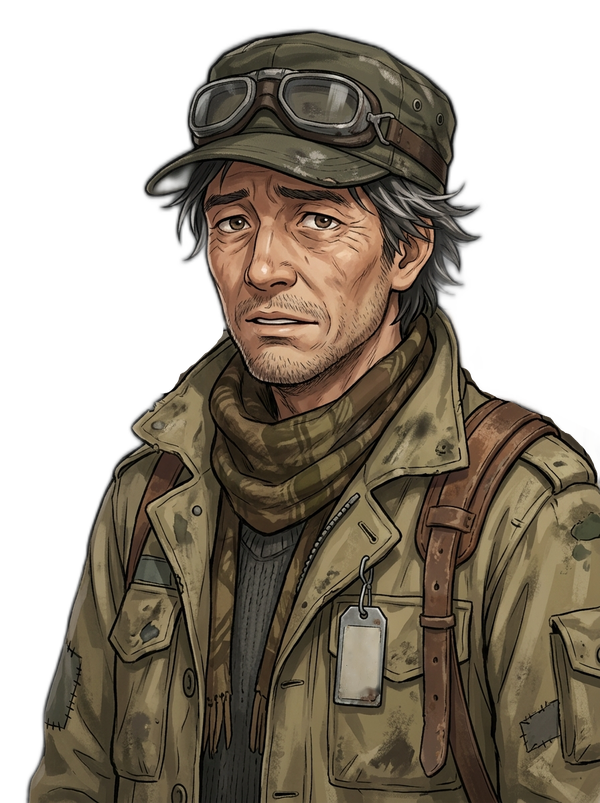
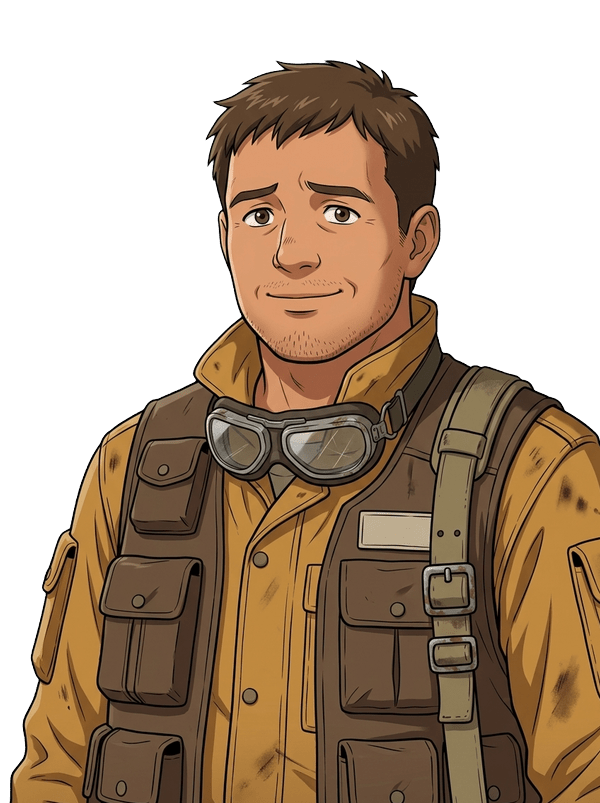
依頼人2人のイラスト差し替え・ライバル6人のイラスト追加・DEBUG に CHARACTERS 欄
頭のてっぺん〜あごの長さで全員の大きさをそろえた背景透過 PNG（600×803）。
DEBUG の CHARACTERS から来訪と同じ表示で1人ずつ確認でき、◀ ▶ で順送り。sw.js mech-v103。

Claude-Session: https://claude.ai/code/session_019GQLunoLs4AQurbUfmGhSK

diff --git a/index.html b/index.html
@@ -4309,6 +4309,8 @@ function visitNext(){clearInterval(VS.iv);VS.iv=null;
  VS.done=()=>{clearInterval(VS.iv);VS.iv=null;el.textContent=txt;if(VS.q.length||VS.fin)$('vNx').hidden=false;else visitChoices()};
  el.textContent='';VS.iv=setInterval(()=>{el.textContent=txt.slice(0,++n);SND.blip(sp==='c'?(VS.d.voice||'adultM'):sp==='n'?'nona':'doll',n);if(n>=txt.length)VS.done()},TXT_SPD)}
 function visitChoices(){const ch=$('vCh');if(ch.childElementCount||VS.fin)return;const d=VS.d;
+ if(d.cv!=null){[['◀ 前',()=>charStep(-1)],['次 ▶',()=>charStep(1)],['DEBUG へ戻る',()=>{visitEnd();setTimeout(dbgOpen,680)}]]
+  .forEach(([lab,fn])=>{const b=document.createElement('button');b.type='button';b.textContent=lab;b.onclick=e=>{e.stopPropagation();if(!VS.busy)fn()};ch.appendChild(b)});return}
  // 見返し：選択肢は出さず、最後のセリフのあとタップで依頼一覧へ戻る
  if(VS.replay){VS.fin=()=>{visitEnd();openBoard(d.id)};$('vNx').hidden=false;return}
  const ok=()=>{visitEnd();openBoard(d.id)},later=()=>{visitEnd();nonaSay([['依頼一覧に入れておきました。MENU の <em>MISSION</em> から、いつでも確認できます。']])};
@@ -4839,6 +4841,7 @@ function dbgRender(){const box=$('dbgBox'),chs=[...new Set(MLIST.filter(isMis).m
   <div class="dl"><div class="dt"><span>チュートリアル完了（ガレージ案内・初回 TRAINING）</span><span class="sg"><button data-t="0" class="${DW.tut?'':'on'}">未完了</button><button data-t="1" class="${DW.tut?'on':''}">完了</button></span></div>
   ${chs.map(c=>`<div class="dc">CHAPTER ${c}${CHAPTERS[c]?'　'+CHAPTERS[c]:''}</div>`+MLIST.filter(d=>d.ch===c).map(d=>`<div class="dr${d.story?' st':''}${d.ready?'':' na'}"><span><b>${d.id}</b>${d.title}${d.ready?'':'（準備中）'}</span>${seg(d.id,DW.m[d.id],!d.ready)}</div>`).join('')).join('')}
   ${dbgParts()}
+  ${dbgChars()}
   <div class="dc">PLAY</div><div class="dt"><span>無敵モード（自機・護衛対象がダメージを受けない）</span><span class="sg"><button data-i="0" class="${DW.inv?'':'on'}">OFF</button><button data-i="1" class="${DW.inv?'on':''}">ON</button></span></div></div>
   <div class="note">いまの状態：CLASS ${CLS} ／ CH.${CH}　→　適用後：CLASS ${dbgDerive().cls} ／ CH.${dbgDerive().ch}</div>
   <div class="ft"><button class="go" id="dbgGo">適用して保存</button><button class="btn-sub" id="dbgOff">デバッグを終了</button><button class="btn-sub x" id="dbgX">閉じる</button></div>`;
@@ -4848,9 +4851,25 @@ function dbgRender(){const box=$('dbgBox'),chs=[...new Set(MLIST.filter(isMis).m
  box.querySelectorAll('[data-i]').forEach(b=>b.onclick=()=>{DW.inv=b.dataset.i==='1';dbgRender()});
  box.querySelectorAll('[data-p]').forEach(b=>b.onclick=()=>{const ids=b.dataset.p.split(','),on=!ids.every(i=>DW.own.has(i));ids.forEach(i=>on?DW.own.add(i):DW.own.delete(i));const sc=box.querySelector('.dl').scrollTop;dbgRender();box.querySelector('.dl').scrollTop=sc});
  box.querySelectorAll('[data-pall]').forEach(b=>b.onclick=()=>{if(b.dataset.pall==='1')dbgAllParts().forEach(i=>DW.own.add(i));else{DW.own=new Set(START_OWN)}const sc=box.querySelector('.dl').scrollTop;dbgRender();box.querySelector('.dl').scrollTop=sc});
+ box.querySelectorAll('[data-cv]').forEach(b=>b.onclick=()=>{dbgClose();charView(+b.dataset.cv)});
  $('dbgX').onclick=dbgClose;$('dbgGo').onclick=dbgApply;
  $('dbgOff').onclick=()=>{DBG.on=false;DBG.inv=false;dbgSave();dbgMenu();dbgClose();nonaSay([['デバッグモードを終了しました。']])}}
 /* パーツ取得：フレーム・兵装を問わず、好きな品を所持品にする（開放前の系列・00 COUNTER・ラスト・オーダーも可）。最初から持っている品は外せない */
+/* キャラクターのイラスト確認（DEBUG の CHARACTERS）：来訪と同じ表示で1人ずつ見る。◀ ▶ で順送り。
+   イラストは頭のてっぺん〜あごの長さをそろえた 600×803 の背景透過 PNG（手順は claude/キャラクターイラスト処理手順.md） */
+const CHARS=[
+ {g:'依頼人',name:'オットー',sub:'行商人 ／ 1-2 の依頼人',img:'img/clients/client-merchant-otto.png',voice:'youthM'},
+ {g:'依頼人',name:'ヴァルター',sub:'元整備兵 ／ ★1-S の依頼人',img:'img/clients/client-veteran-walter.png',voice:'adultM'},
+ {g:'ライバル',name:'ガイウス・ハーラン',sub:'01 JOSHUA ／ 無敗の皇帝',img:'img/rivals/rival-joshua-gaius.png',voice:'adultM'},
+ {g:'ライバル',name:'レナード・クロウ',sub:'02 SOLOMON ／ 黒金の商人',img:'img/rivals/rival-solomon-leonard.png',voice:'adultM'},
+ {g:'ライバル',name:'セレナ・ヴァルデス',sub:'03 DAVID ／ 緋色の喝采',img:'img/rivals/rival-david-serena.png',voice:'youthF'},
+ {g:'ライバル',name:'ティモ・アルケン',sub:'04 NOAH ／ 砂原の使者',img:'img/rivals/rival-noah-timo.png',voice:'youthM'},
+ {g:'ライバル',name:'エーリヒ・ブラント',sub:'05 DEBORAH ／ 鉄血の天秤',img:'img/rivals/rival-deborah-erich.png',voice:'adultM'},
+ {g:'ライバル',name:'ヴィクトル・ザイン',sub:'06 NIMROD ／ 尖塔の狂犬',img:'img/rivals/rival-nimrod-viktor.png',voice:'youthM'}];
+function dbgChars(){return `<div class="dc">CHARACTERS（イラストの確認）</div>`+[...new Set(CHARS.map(c=>c.g))].map(g=>`<div class="pr"><span>${g}</span><span class="sg">${CHARS.map((c,i)=>c.g===g?`<button data-cv="${i}">${c.name}</button>`:'').join('')}</span></div>`).join('')}
+function charView(i){const n=CHARS.length;i=(i+n)%n;const c=CHARS[i];
+ MDEF._cv={id:'_cv',cv:i,talk:[['c',c.sub+'（'+(i+1)+'/'+n+'）']],img:c.img,imgF:'',from:c.name,client:c.name,voice:c.voice};visitPlay('_cv')}
+function charStep(k){const i=VS.d.cv;visitEnd();setTimeout(()=>charView(i+k),680)}
 function dbgAllParts(){return [HEADS,CORES,ARMS,LEGS,HAND,SHOULDER,EXT].flatMap(c=>Object.keys(c).filter(id=>id!=='none'&&PN[id]))}
 function dbgParts(){const all=dbgAllParts(),st=new Set(START_OWN),btn=(ids,lab)=>{const on=ids.every(i=>DW.own.has(i)),dis=ids.every(i=>st.has(i));return `<button data-p="${ids.join(',')}" class="${on?'on':''}" ${dis?'disabled':''}>${lab}</button>`};
  const fr=all.filter(isFrameId),ser=[...new Set(fr.map(i=>PN[i][0]))],wp=all.filter(i=>!isFrameId(i)),cats=[...new Set(wp.map(i=>PN[i][0]))];

diff --git a/sw.js b/sw.js
@@ -1,6 +1,6 @@
 // オフラインでも遊べるよう、ゲーム本体を端末に保存する。更新時は CACHE の番号を上げる
-const CACHE='mech-v102';
-const FILES=['./','./index.html','./manifest.webmanifest','./vendor/three.module.js','./vendor/three.core.js','./icons/icon-192.png','./icons/icon-512.png','./title.png','./img/clients/client-merchant-otto.png','./img/clients/client-veteran-walter.png'];
+const CACHE='mech-v103';
+const FILES=['./','./index.html','./manifest.webmanifest','./vendor/three.module.js','./vendor/three.core.js','./icons/icon-192.png','./icons/icon-512.png','./title.png','./img/clients/client-merchant-otto.png','./img/clients/client-veteran-walter.png','./img/rivals/rival-joshua-gaius.png','./img/rivals/rival-solomon-leonard.png','./img/rivals/rival-david-serena.png','./img/rivals/rival-noah-timo.png','./img/rivals/rival-deborah-erich.png','./img/rivals/rival-nimrod-viktor.png'];
 self.addEventListener('install',e=>{e.waitUntil(caches.open(CACHE).then(c=>c.addAll(FILES)));self.skipWaiting()});
 self.addEventListener('activate',e=>{e.waitUntil(caches.keys().then(ks=>Promise.all(ks.filter(k=>k!==CACHE).map(k=>caches.delete(k)))));self.clients.claim()});
 self.addEventListener('fetch',e=>{
